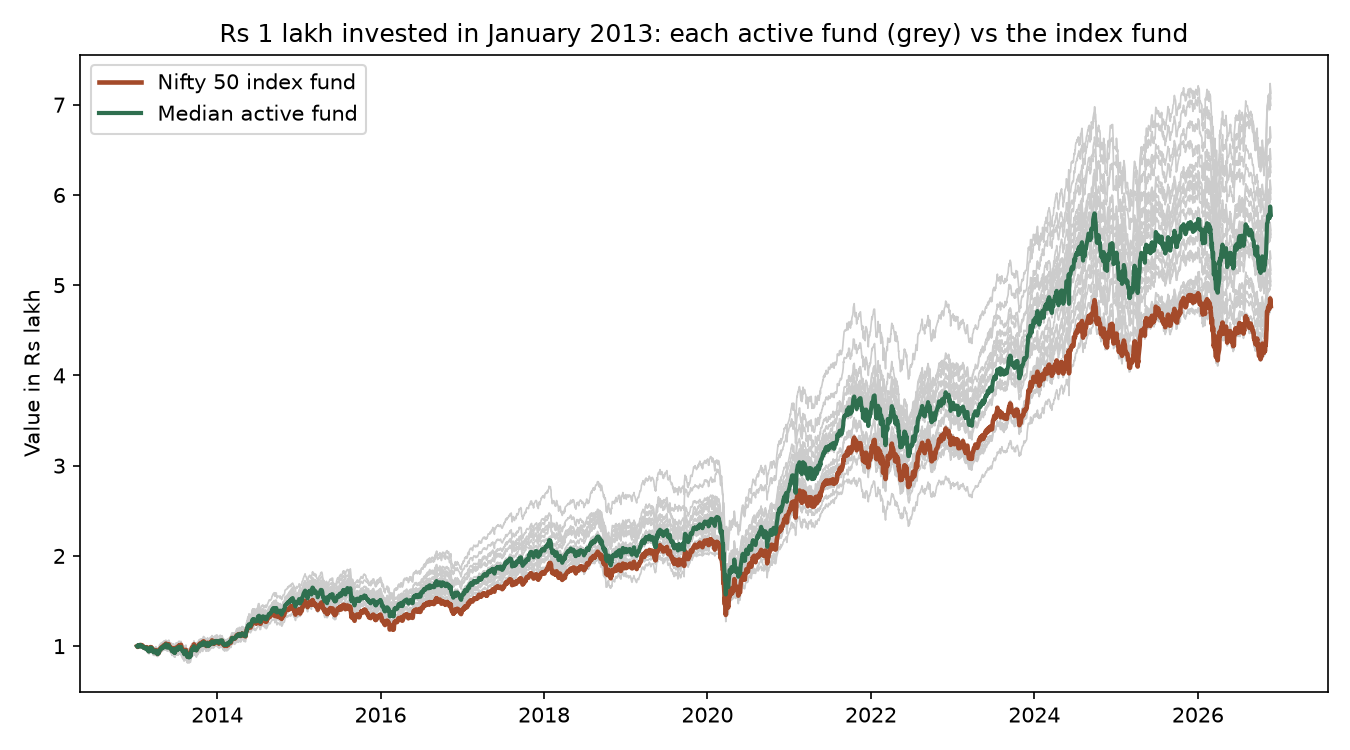
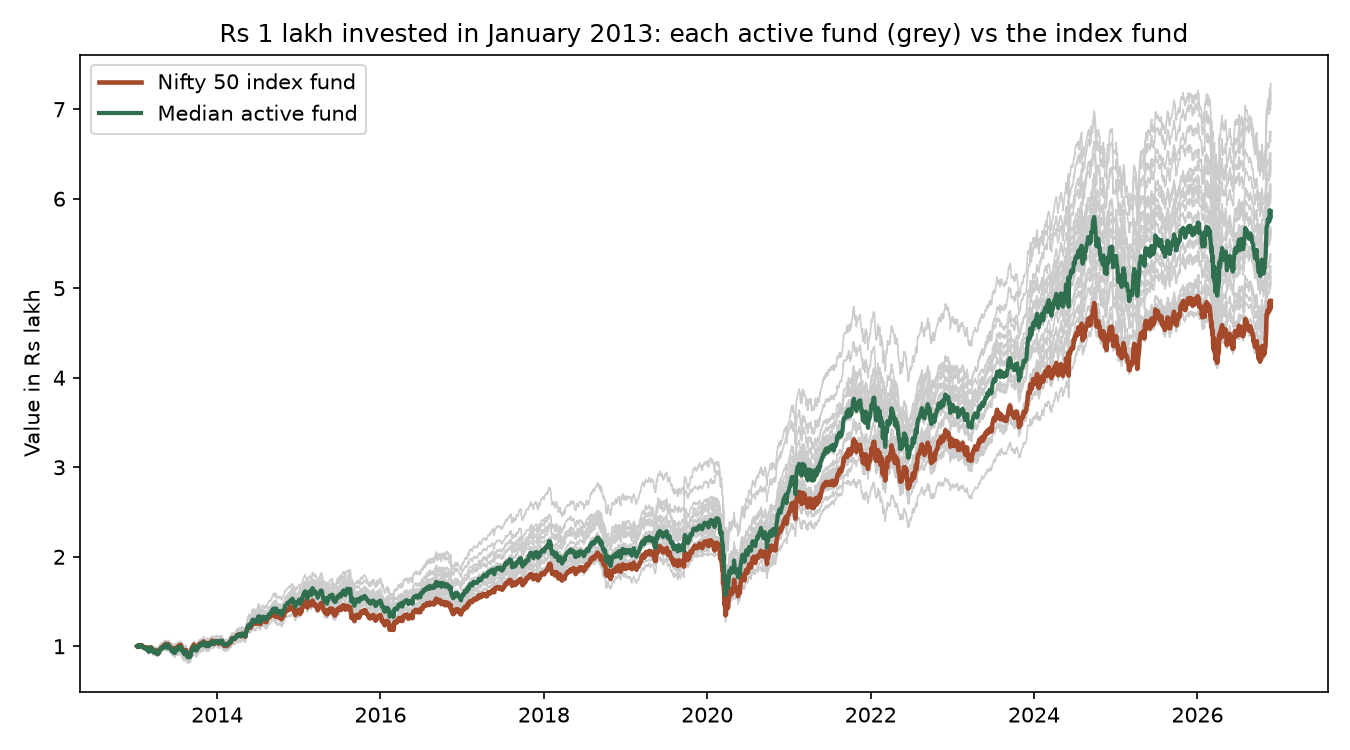
Data refresh: NAVs to 2026-11-26

diff --git a/README.md b/README.md
@@ -5,7 +5,7 @@
 **Short answer:** Over 2013–2026, yes: 19 of 20 surviving active large-cap funds beat the UTI Nifty 50 Index Fund. But it is **streaky**, and the full-period number flatters active funds because of **survivorship bias**. Active funds won almost every 3-year window up to 2018, then most of them *lost* to the index from 2019 to 2021, and they have been winning again since 2024.
 
 <!-- latest -->
-**Latest data: 23 Nov 2026.** Over 13.9 years, the Nifty 50 index fund returned 11.92% a year; 19 of 20 surviving active funds beat it. Right now, 100% of active funds are ahead of the index over the past 3 years.
+**Latest data: 25 Nov 2026.** Over 13.9 years, the Nifty 50 index fund returned 12.06% a year; 19 of 20 surviving active funds beat it. Right now, 100% of active funds are ahead of the index over the past 3 years.
 <!-- /latest -->
 
 ## Data
